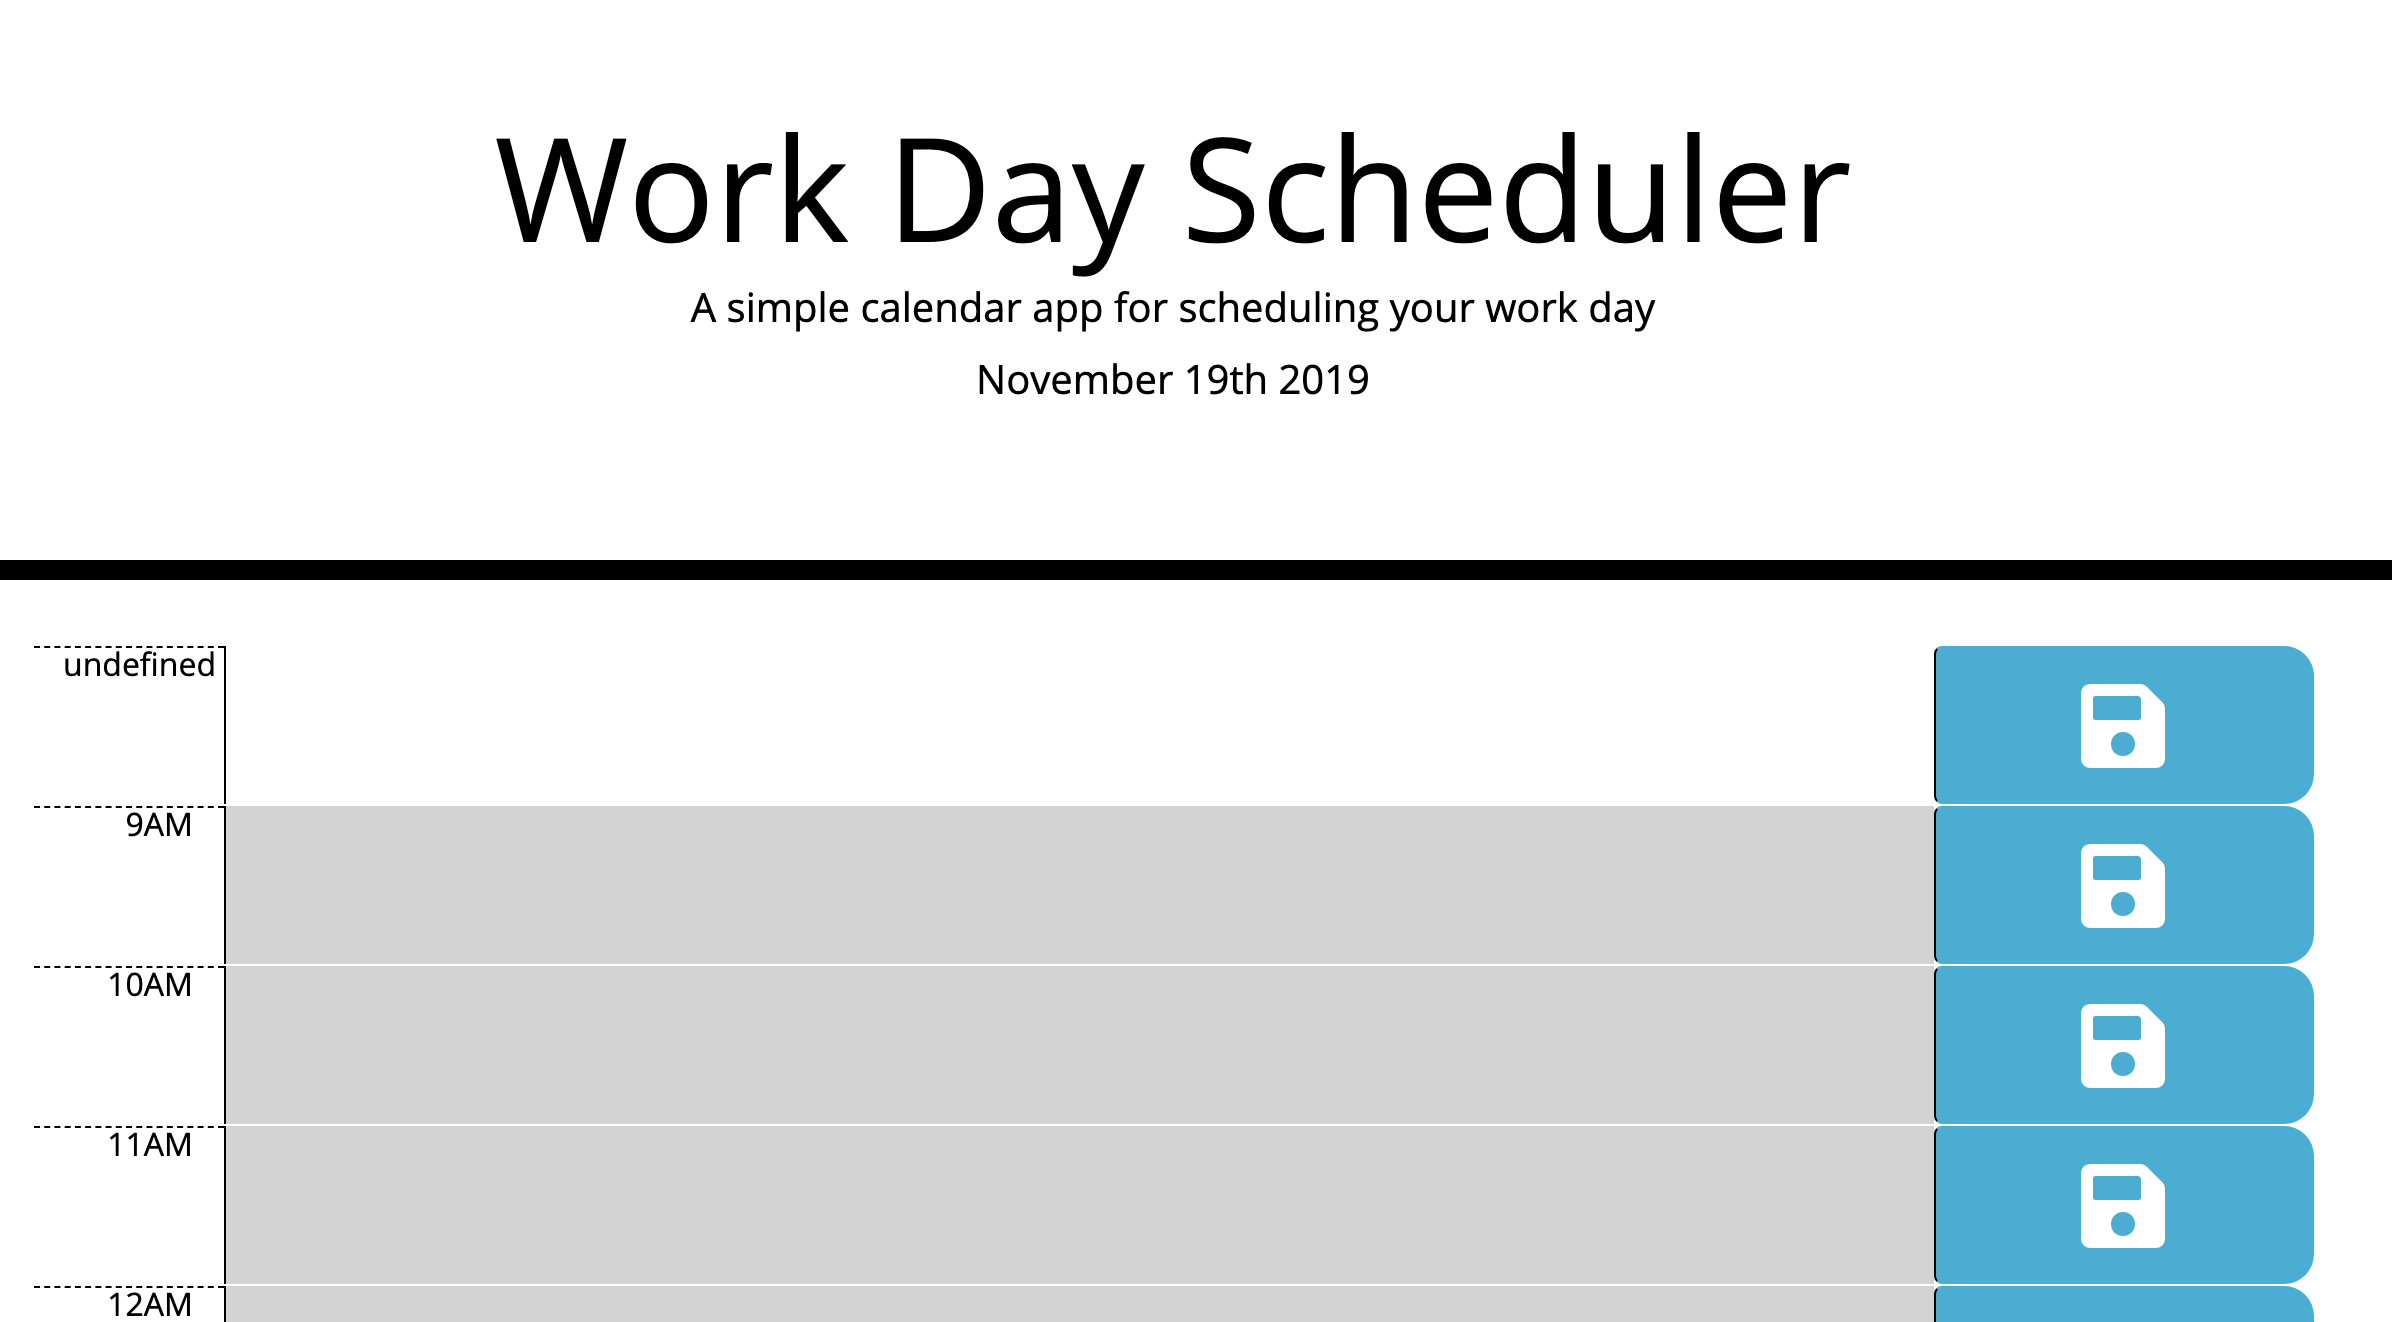
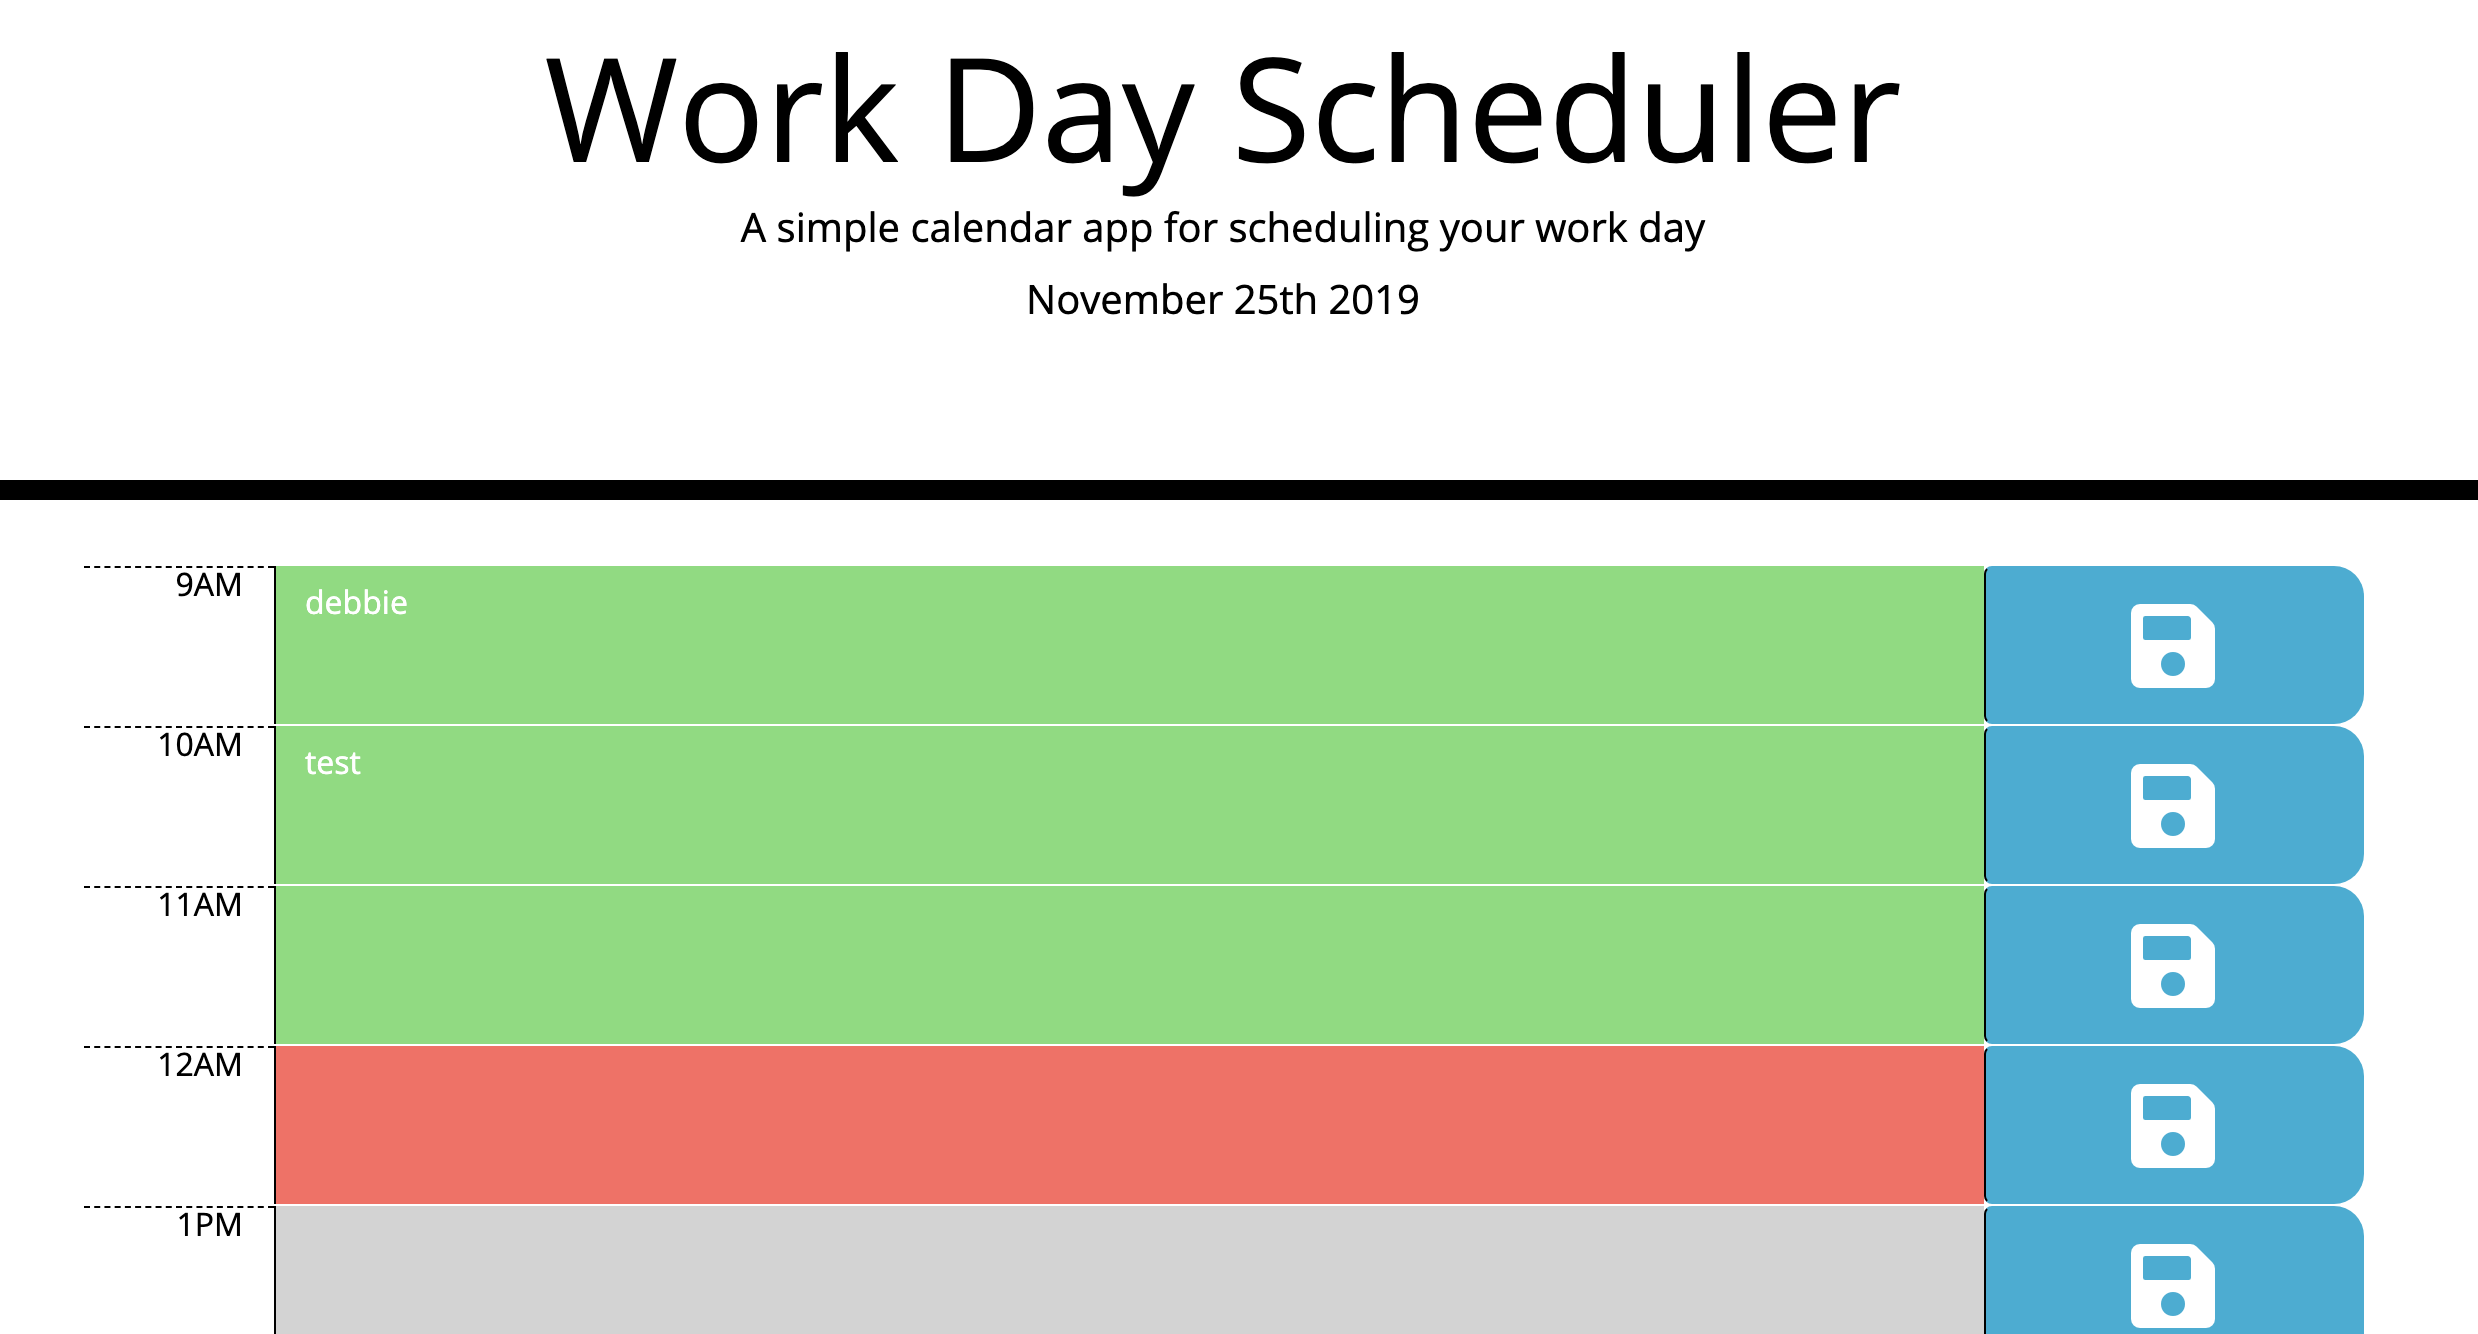
Fixed local storage issue

diff --git a/script.js b/script.js
@@ -4,40 +4,32 @@ var hour = moment().hour();//gives me the hour
 var moment = moment();
 console.log(moment);
 console.log(hour);
-
 $("#currentDay").text(currentDate); // sets current time
-
 $(document).ready(function () {
-    var rows = 9;
-    var columns = 3;
     var workHours = ["9AM", "10AM", "11AM", "12AM", "1PM", "2PM", "3PM", "4PM", "5PM"];
     var hourOfDay = [9, 10, 11, 12, 13, 14, 15, 16, 17];
-
-    var $row = $("<div />", {
-        class: 'row'
-    });
-    var $hour = $("<div class='col-sm-1 hour time-block'>" + workHours[i] + "</div>");
-
-    var $event = $("<textarea />", {
-        class: 'col-9 description'
-    }
-    );
-
-    var $save = $("<button />", {
-        class: 'btn col saveBtn fas fa-save fa-3x'
-    });
-    //add columns
-    for (var i = 0; i < columns; i++) {
-
-        $row.append($hour).append($event).append($save);
-    }
     //create rows
-    for (var i = 0; i <= rows; i++) {
-        $("div.time-block").attr("id", hourOfDay[i]);
-
-        $(".container").append($row.clone());
+    for (var i = 0; i < workHours.length; i++) {
+        
+        var $row = $("<div />", {
+            class: 'row'
+        })
+        
+        var $hour = $("<div class='col-sm-1 hour time-block'>" + workHours[i] + "</div>");
         $hour.text(workHours[i]);
+        
+        var $event = $("<textarea />", {
+            class: 'col-9 description'
+        })
+        $event.attr("data-index", workHours[i])
 
+        var $save = $("<button />", {
+            class: 'btn col-1 saveBtn fas fa-save fa-3x'
+        });
+    
+        $(".container").append($row);
+        $row.append($hour).append($event).append($save);
+        
         if (hour === hourOfDay[i]) {
             $event.addClass("present");
         } else if (hour < hourOfDay[i]) {
@@ -45,30 +37,22 @@ $(document).ready(function () {
         } else {
             $event.addClass("future");
         }
-        // $("textarea.description").val('Add Event');
-   
-    getEvent();
 
     $(".btn").click(function () {
         var time = $(this).siblings("div.time-block").text();
         var input = $(this).siblings("textarea.description").val();
         localStorage.setItem(time, input);
     })
- }
-    getEvent();
-    function getEvent() {
 
-        $("#17").val(localStorage.getItem("17"));
-        console.log(localStorage.getItem("17"));
-        // $("#10").val(localStorage.getItem("10"));
-        // $("#11").val(localStorage.getItem("11"));
-        // $("#12").val(localStorage.getItem("12"));
-        // $("#13").val(localStorage.getItem("13"));
-        // $("#14").val(localStorage.getItem("14"));
-        // $("#15").val(localStorage.getItem("15"));
-        // $("#16").val(localStorage.getItem("16"));
-        // $("#17").val(localStorage.getItem("17"));
-        // console.log('get event func')
-    }
-
+    var inputText = localStorage.getItem(workHours[i]);
+    $event.text(inputText);
+    
+    //on click function
+    $save.on('click', function (event) {
+        event.preventDefault();
+        var element = event.target;
+        var content = element.parentNode.parentNode.querySelector('.description').value;
+        localStorage.setItem(workHours[i], content);
+    })
+}
 });
